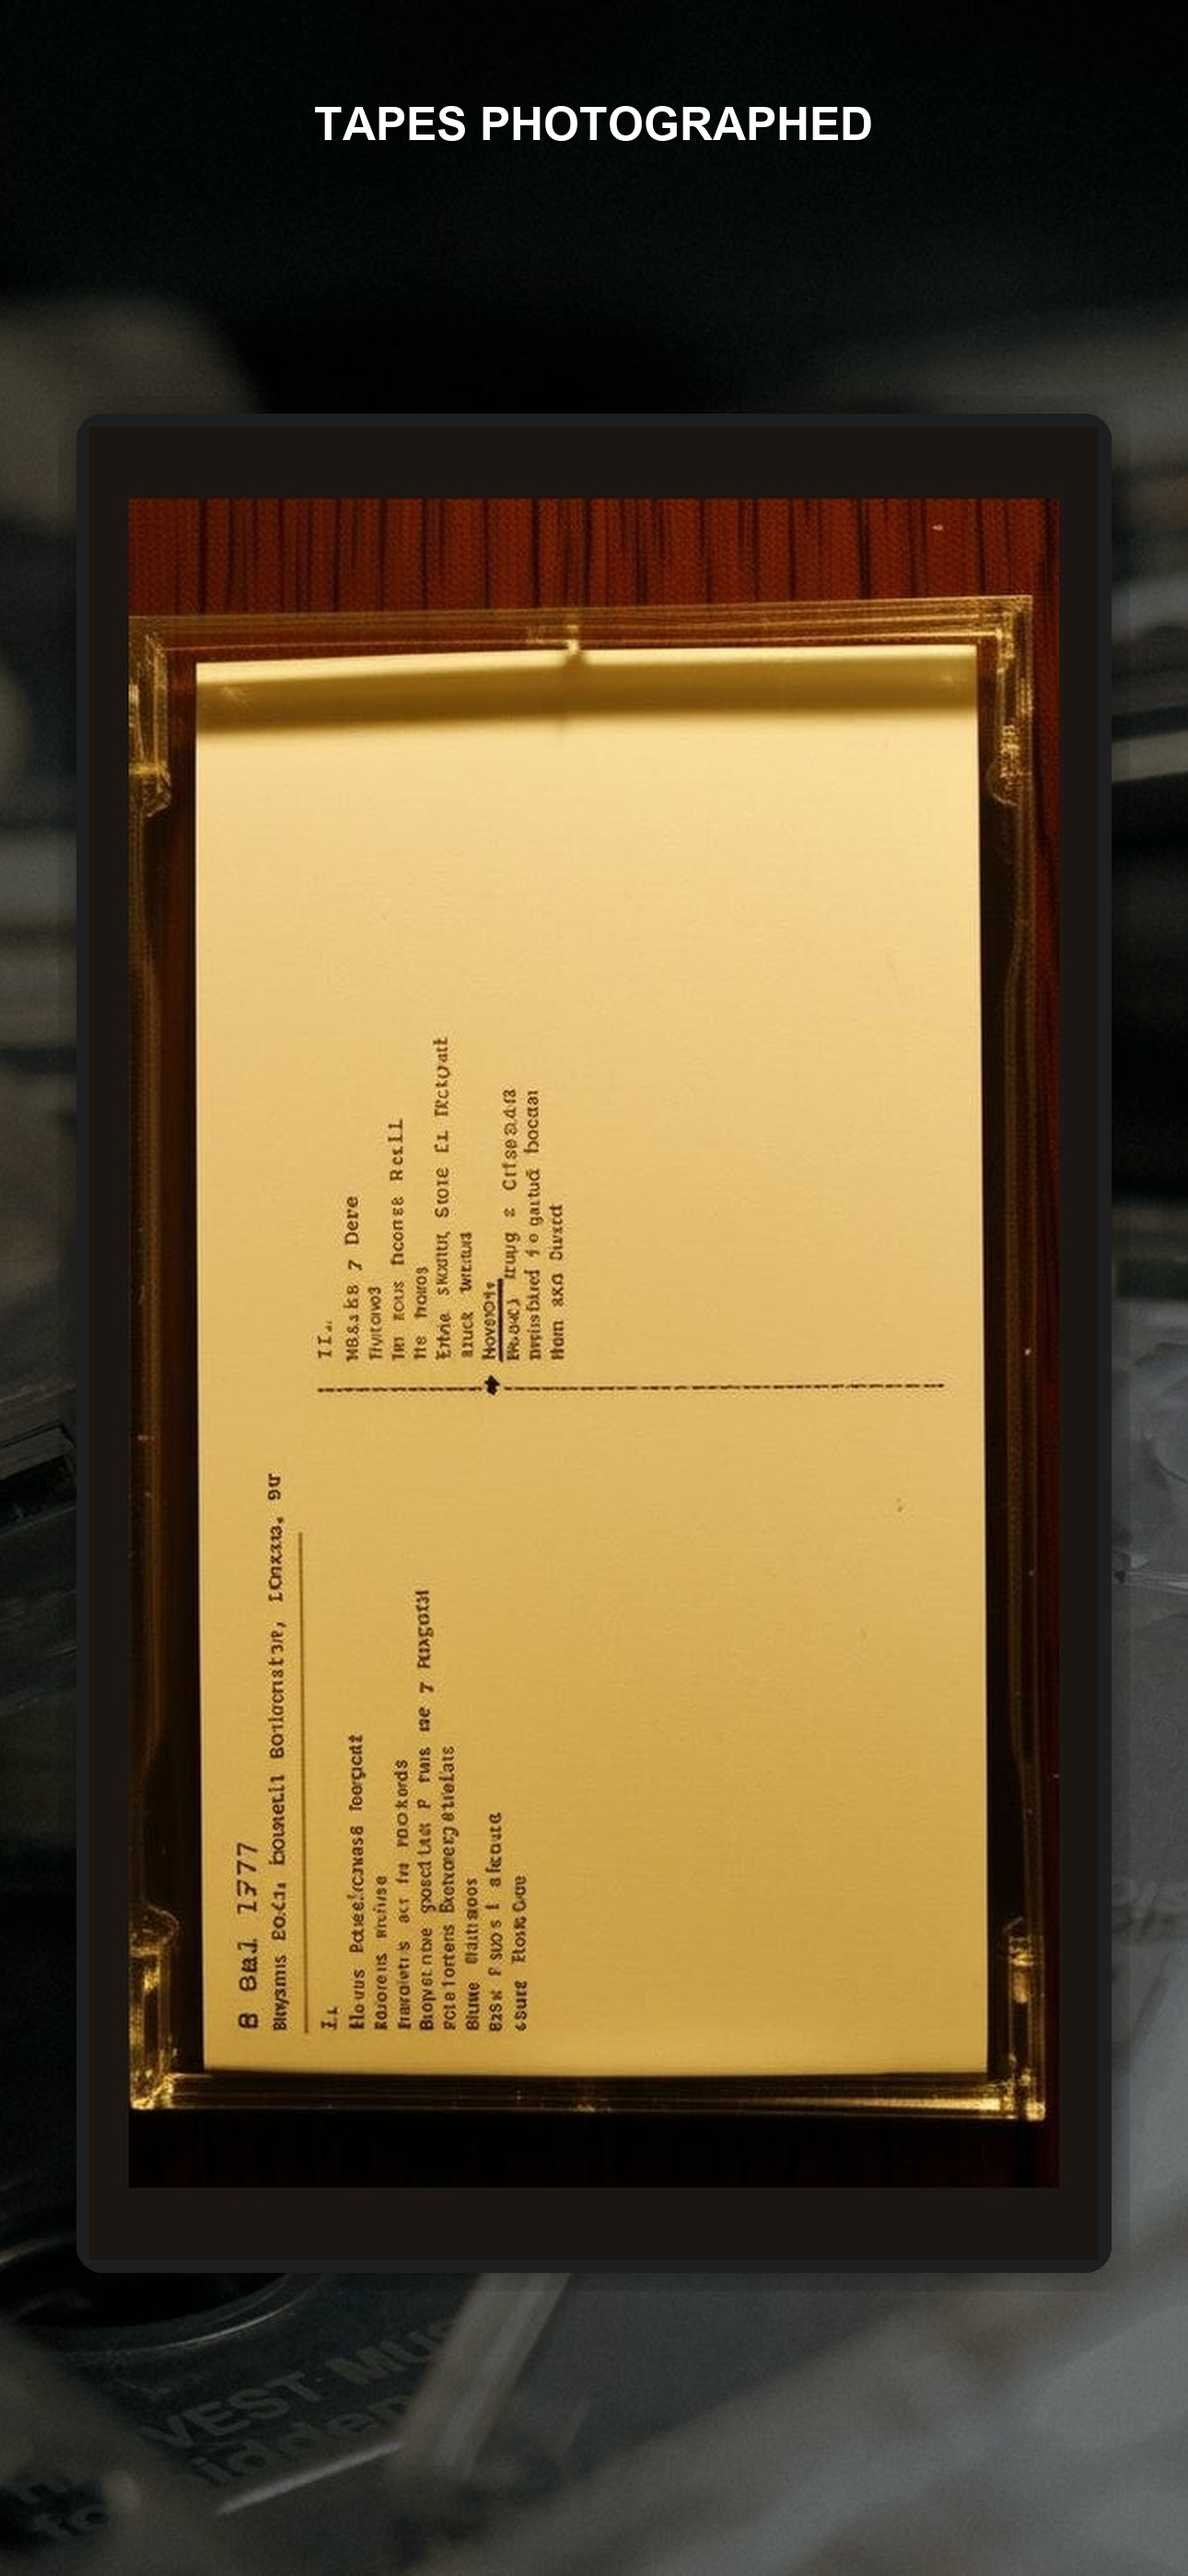
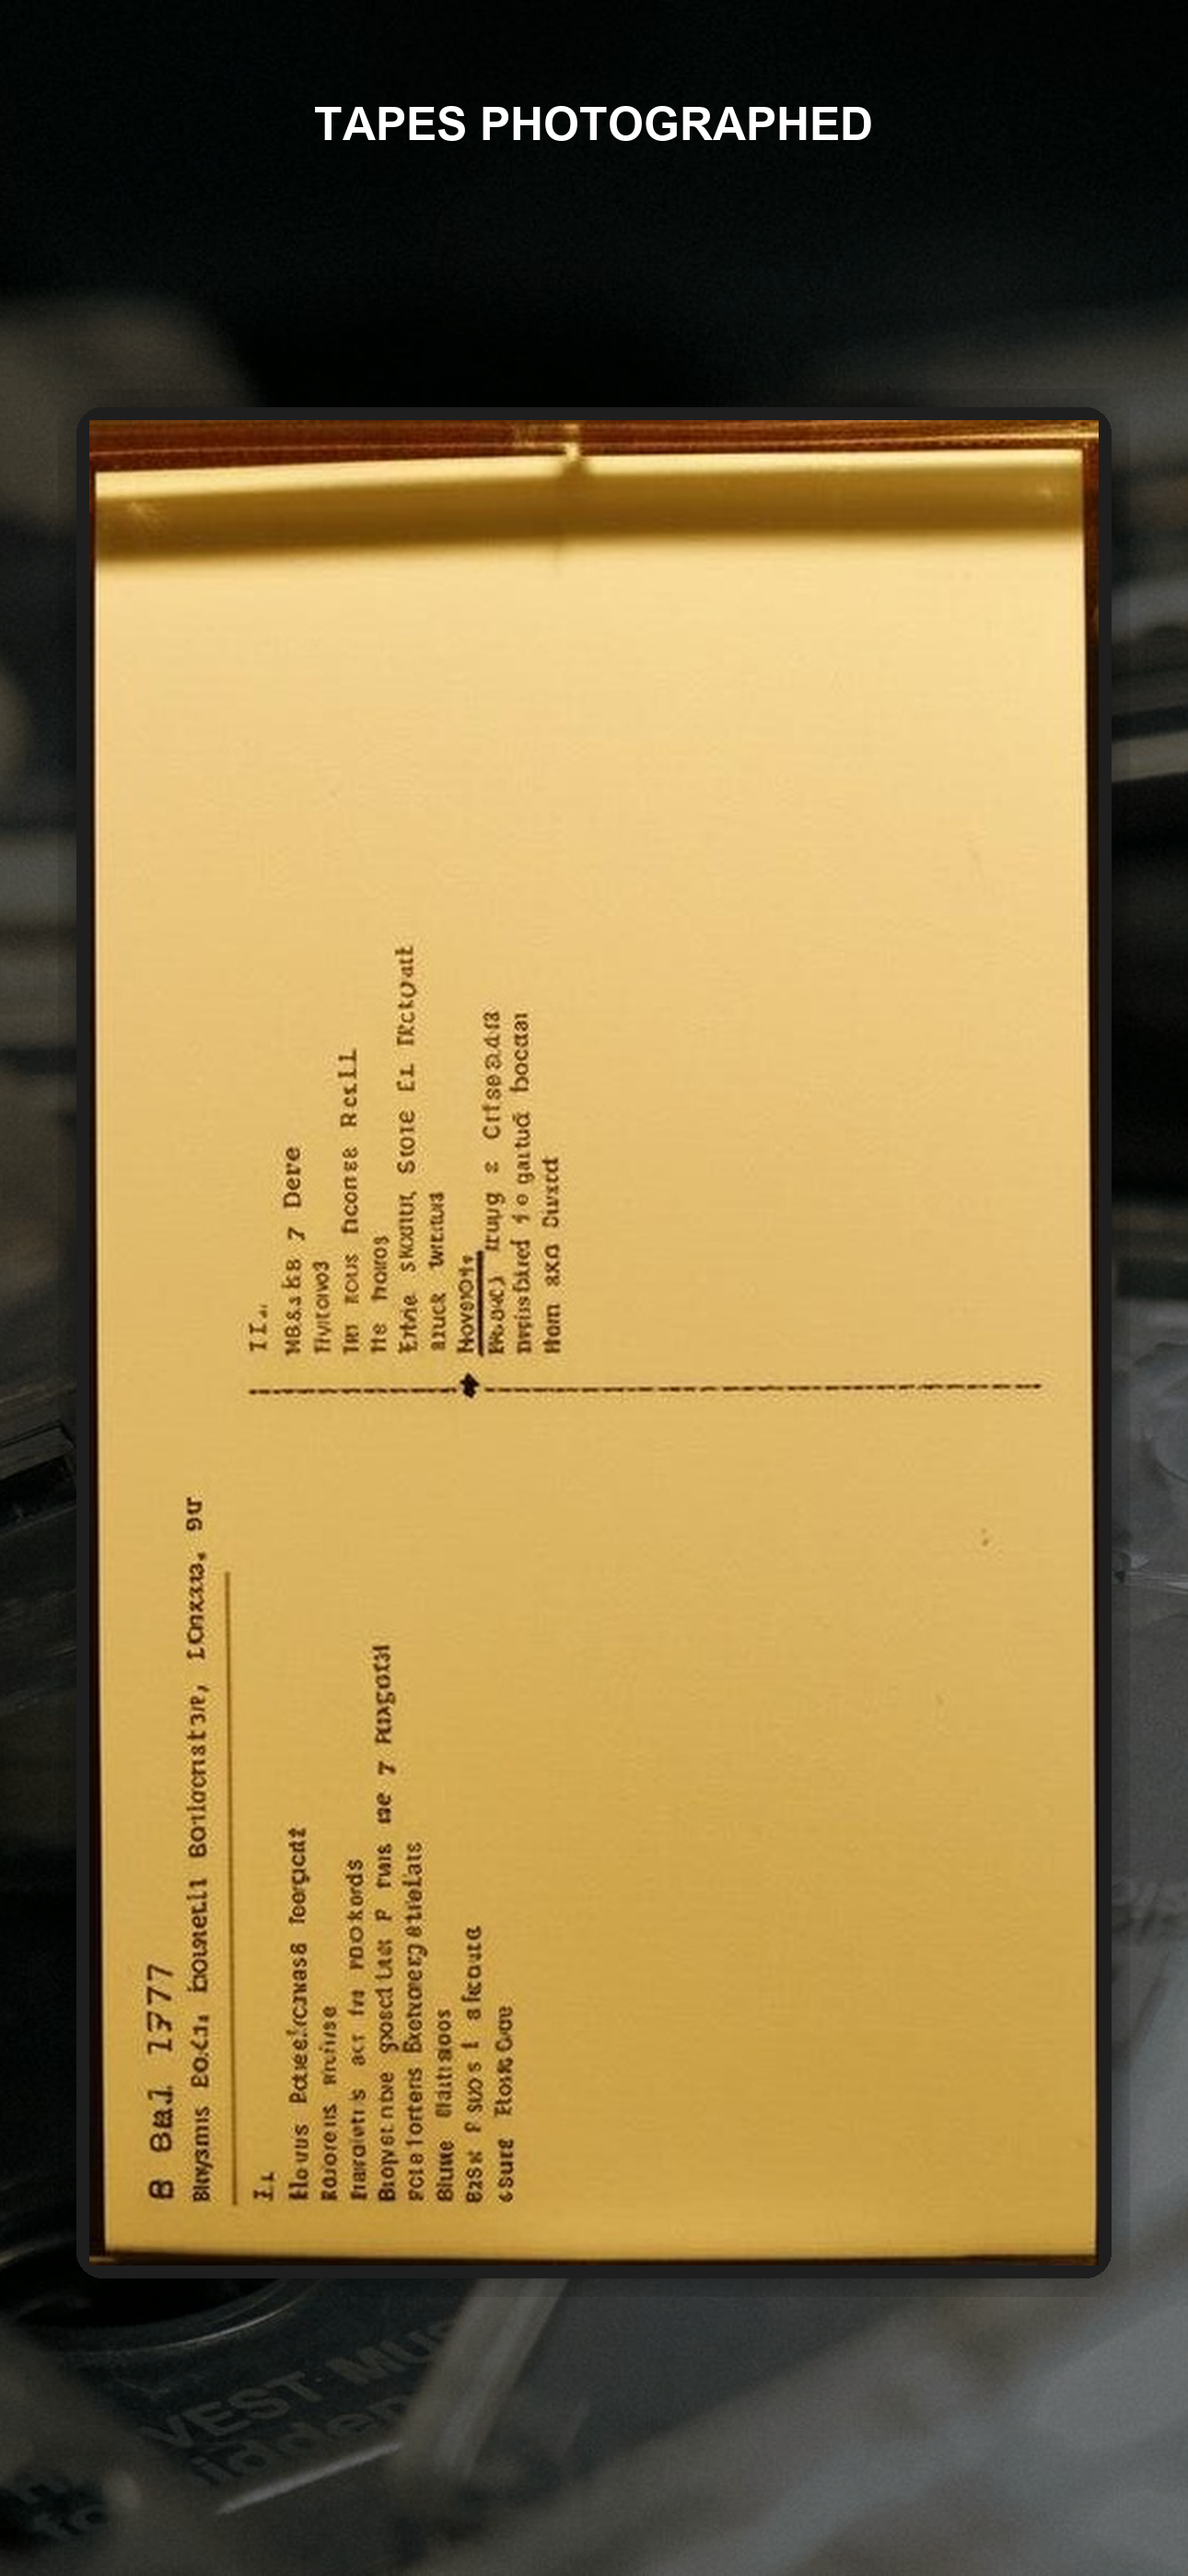
Crop wood border from J-card

Changed region(s): [[0.062, 0.1556, 0.9302, 0.9024], [0.2171, 0.3734, 0.4961, 0.5601]]

diff --git a/preview.html b/preview.html
@@ -1,4 +1,4 @@
 <!DOCTYPE html>
 <html><head><meta charset="UTF-8"><meta name="viewport" content="width=device-width"><title>Screenshot Preview</title>
 <style>body{background:#111;margin:0;padding:20px;text-align:center;}img{max-width:100%;max-height:90vh;}</style>
-</head><body><img src="appstore-screenshot-3-new.png?v=5"></body></html>
+</head><body><img src="appstore-screenshot-3-new.png?v=6"></body></html>
